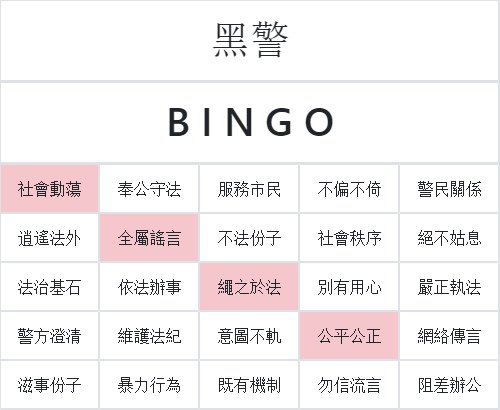
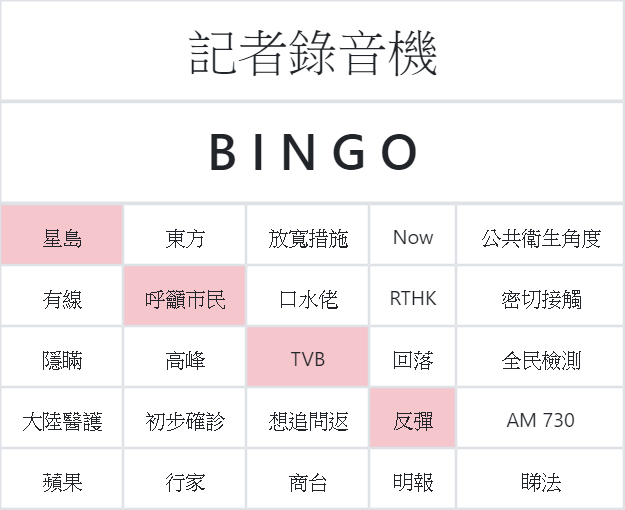
Added press.txt

diff --git a/index.html b/index.html
@@ -57,11 +57,17 @@
                         isBingo: false,
                         showLightbox: false,
                         configs: {
+                            "press":  {
+                                items: "press.txt",
+                                title: "記者錄音機",
+                                banner: "B I N G O",
+                                selected: true
+                            },
                             "ce":  {
                                 items: "ce.txt",
                                 title: "林鄭錄音機",
                                 banner: "B I N G O",
-                                selected: true
+                                selected: false
                             },
                             "dog":  {
                                 items: "dog.txt",
@@ -160,9 +166,9 @@
                         });
                 }
     
-                load(app.configs.ce);
+                load(app.configs.press);
             </script>
             <!-- Place this tag in your head or just before your close body tag. -->
-            <script async defer src="https://buttons.github.io/buttons.js"></script>
+            <!-- <script async defer src="https://buttons.github.io/buttons.js"></script> -->
     </body>
 </html>
